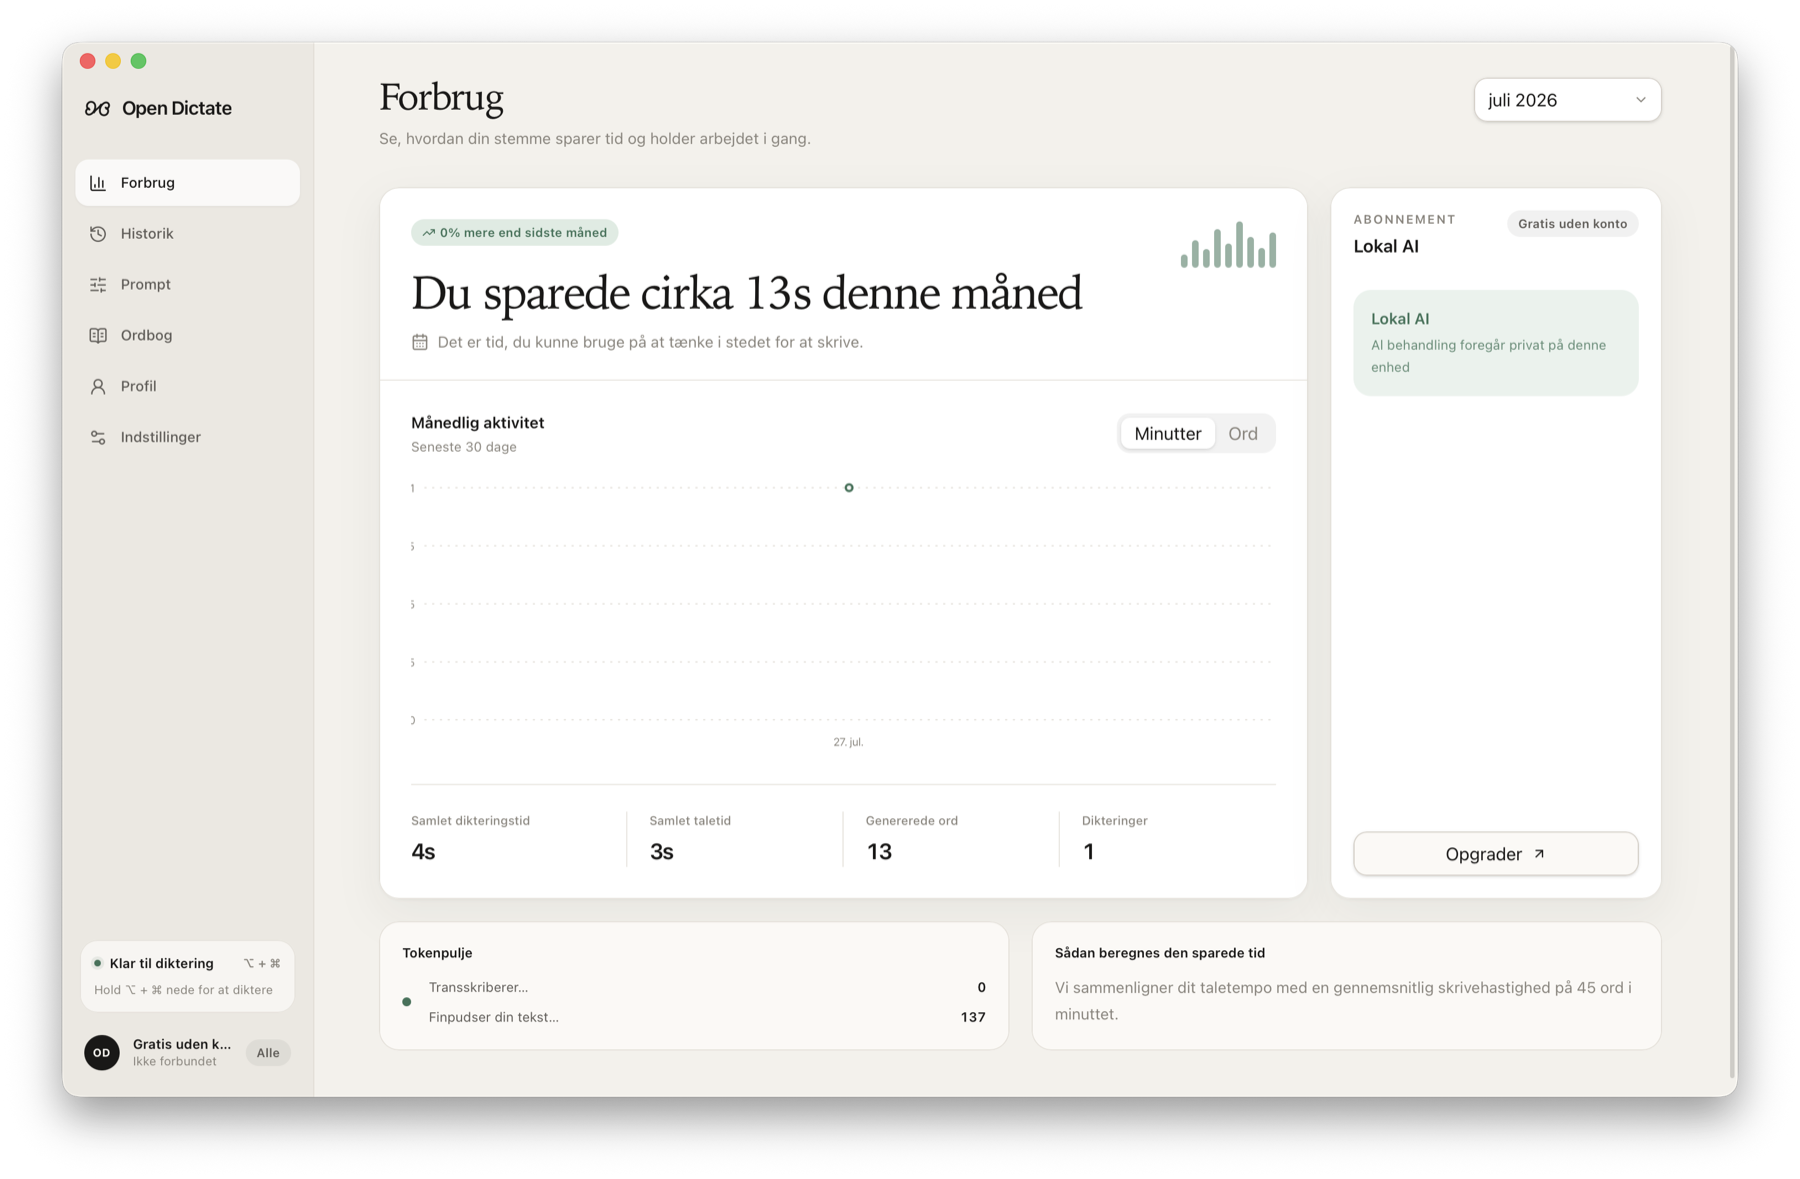
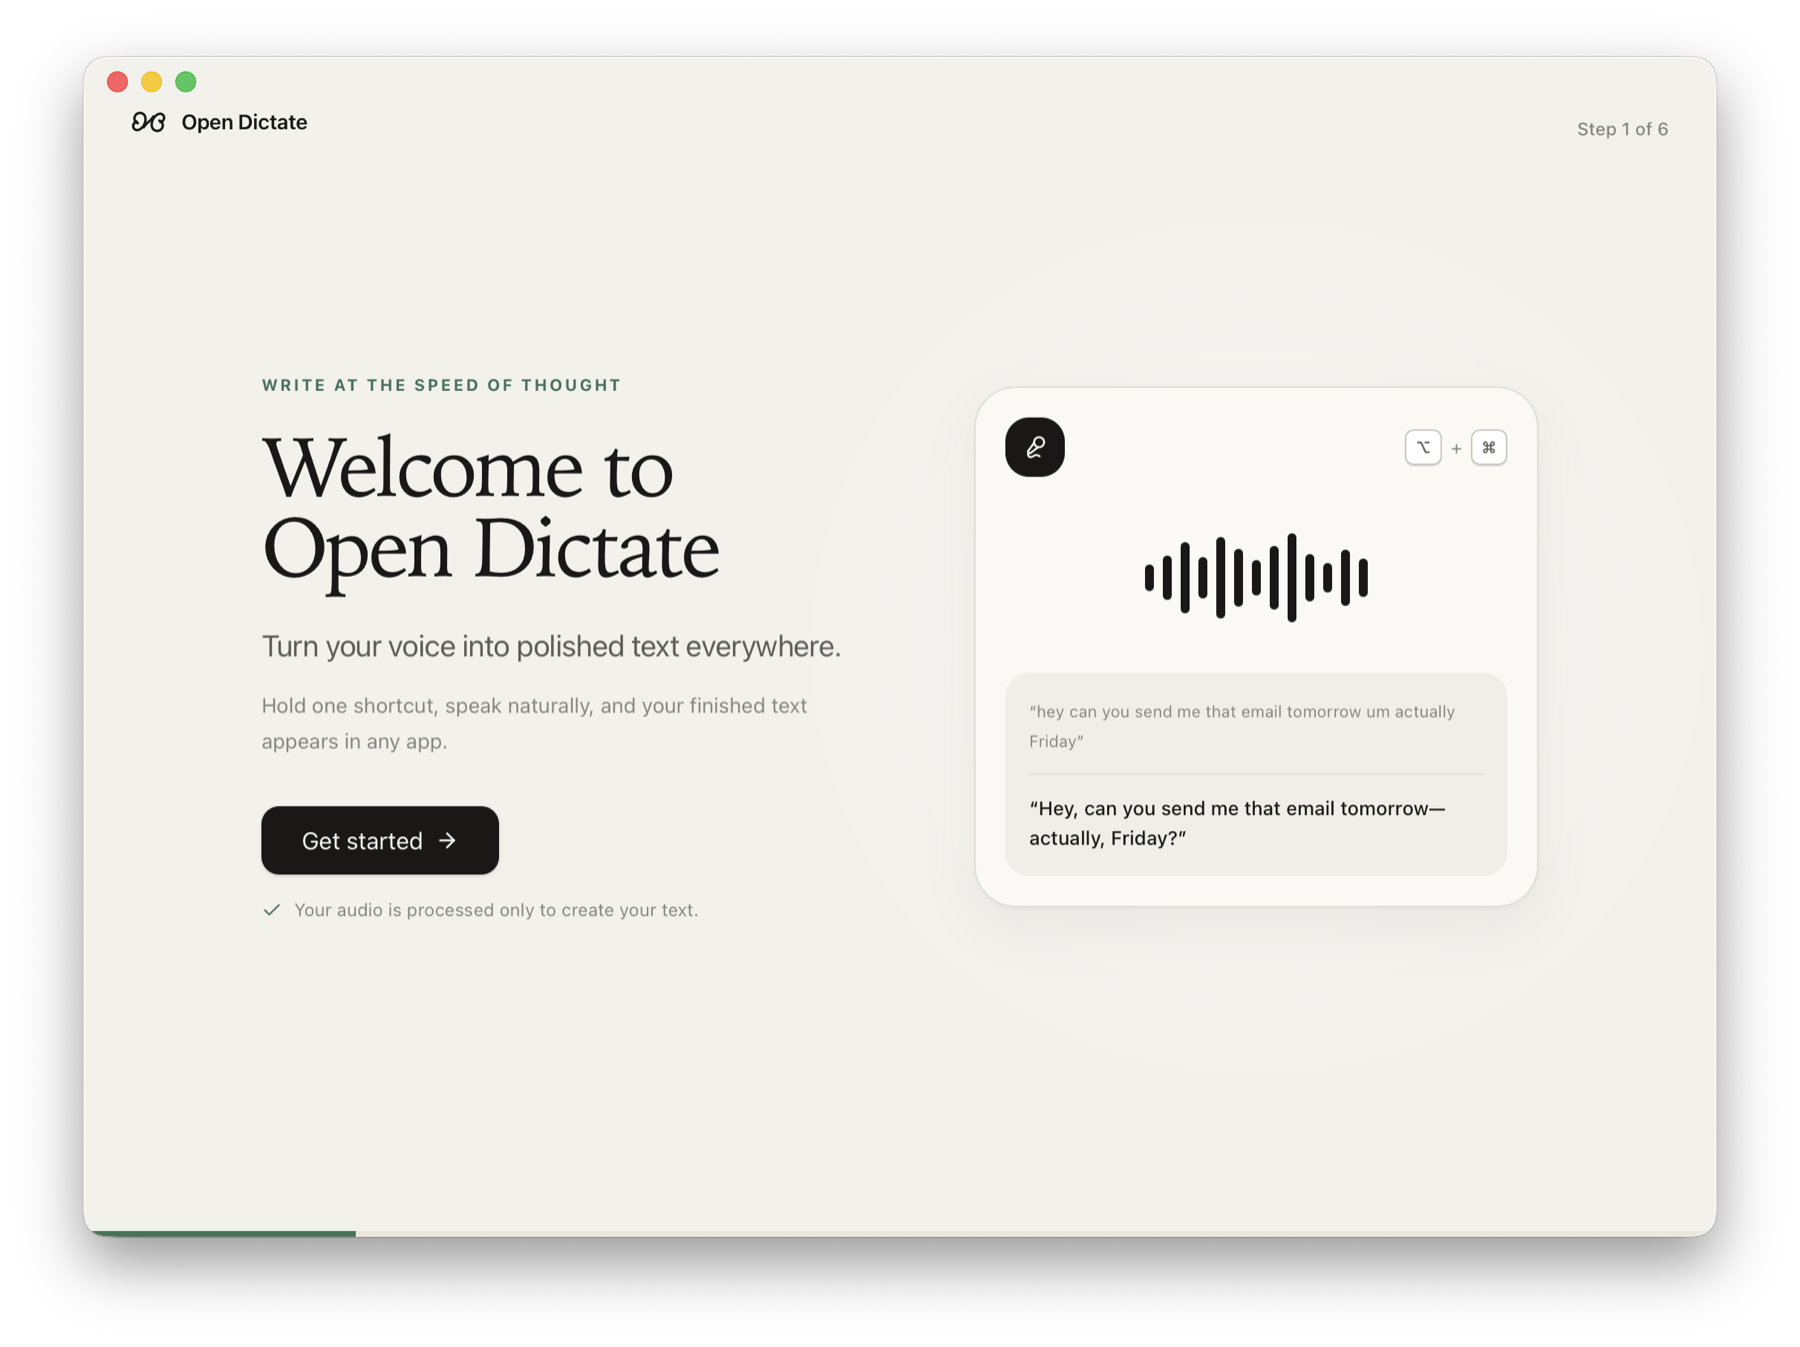
Update README hero image

diff --git a/README.md b/README.md
@@ -10,7 +10,7 @@ Open Dictate is an open-source voice-dictation app for macOS. Hold the global sh
 
 > This is an early preview for macOS 12+. The app is ad-hoc signed but not Apple-notarized, so macOS may ask you to approve it under **System Settings → Privacy & Security**.
 
-![Open Dictate usage dashboard](docs/images/open-dictate-usage.png)
+![Welcome to Open Dictate](docs/images/open-dictate-usage.png)
 
 ## What it does
 
